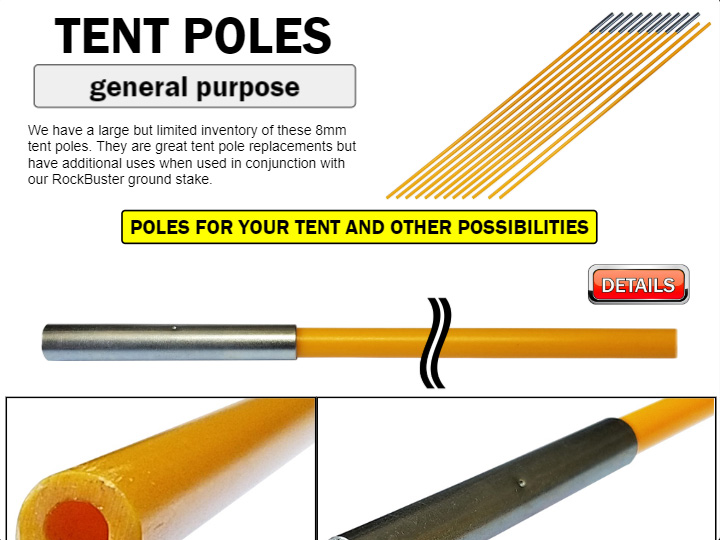
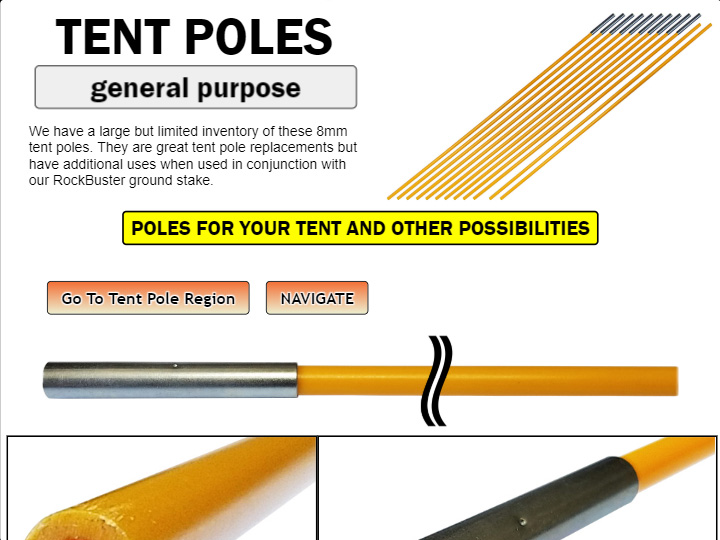
content add/edit and configure of view08 - tent poles

diff --git a/components/components08_11/tmpl_08/viewTmpl_08.html b/components/components08_11/tmpl_08/viewTmpl_08.html
@@ -1,35 +1,4 @@
-<style>
-.textStyle1
-{
-font-family: 'Franklin Gothic Medium', 'Franklin Gothic', 'ITC Franklin Gothic', Arial, sans-serif;   
-color:white;
-text-shadow:    1px 0px 1px black, 2px 0px 2px black, 3px 0px 3px black, 
-                1px 1px 1px black, 2px 2px 2px black, 3px 3px 3px black,
-                0px 1px 1px black, 0px 2px 2px black, 0px 3px 3px black,
-
-                -1px 1px 1px black, -2px 2px 2px black, -3px 3px 3px black,
-                -1px 0px 1px black, -2px 0px 2px black, -3px 0px 3px black,
-                
-                -1px -1px 1px black, -2px -2px 2px black, -3px -3px 3px black,
-                 0px -1px 1px black,  0px -2px 2px black,  0px -3px 3px black,
-                 1px -1px 1px black,  2px -2px 2px black,  3px -3px 3px black;
-}
-
-.fontFam
-{
-font-family: 'Franklin Gothic Medium', 'Franklin Gothic', 'ITC Franklin Gothic', Arial, sans-serif;     
-}
-
-.imageStyle1:hover
-{
-background-color:black; 
-border-radius:10px;
-box-shadow: 1px 1px 15px #CCEDF2, 1px -1px 15px #CCEDF2, -1px 1px 15px #CCEDF2, -1px -1px 15px #CCEDF2,
-            1px 1px 25px #EAE2BB, 1px -1px 25px #EAE2BB, -1px 1px 25px #EAE2BB, -1px -1px 25px #EAE2BB,
-            1px 1px 25px #EAE2BB, 1px -1px 25px #EAE2BB, -1px 1px 25px #EAE2BB, -1px -1px 25px #EAE2BB;
-}
-
-</style>
+<link rel="stylesheet" type="text/css" href="css/vn-templateStyle1.css">
 
 <div style="text-align:center;">    
 
@@ -38,7 +7,7 @@ box-shadow: 1px 1px 15px #CCEDF2, 1px -1px 15px #CCEDF2, -1px 1px 15px #CCEDF2, 
         <tr>
             <td style=" {{$ctrl.rs1width1}};            /* AR_50_60 */
                         vertical-align:top;">
-                <div    class="fontFam"
+                <div    class="textStyle2"
                         style=" width:100%;
                                 {{$ctrl.rs1fontsize3}}; /* AR_3_0.8 */
                                 ">
@@ -102,33 +71,76 @@ box-shadow: 1px 1px 15px #CCEDF2, 1px -1px 15px #CCEDF2, -1px 1px 15px #CCEDF2, 
 <!-- Response Section 3 ************************************************************************************************************************************************-->
 
     <div style="position:relative; 
-                {{$ctrl.rs3height1}}; /* AR_200_65*/
-                ">
-        
-        <table style="  position:absolute; 
-                        {{$ctrl.rs3positiontop1}};         /* AR_-50_-25 */
-                        /*top:-50px; */
-                        {{$ctrl.rs3positionleft1}};         /* AR_85_75*/
-                        z-index:2;">
-            <tr>
-                <td style="text-align:right; vertical-align:top;">
-                    <a href="https://www.tarptiedown.com/TTD-Store/index.php?rt=product/category&path=18&session_id=6j7rvh11bja994asmiaq72uj26"> 
-                        <img src="https://tarptiedown.com/resources/ttd-vn-button3-300x120.png"
-                             alt="button" 
-                             title="Tent pole sizes, uses, elastic cord, prices, etc."
-                             class="imageStyle1"
-                             style="{{$ctrl.rs3width3}};">  <!-- AR_150_70 -->
-                    </a>
-                </td>
-            </tr>
-        </table>
+                {{$ctrl.rs3fontsize1}};
+               ">
         
         <img    src="components/components08_11/tmpl_08/ttd-vn-tp-presentation5-2540x375.jpg" 
                 alt="Tent Pole" 
                 title="Tent Pole" 
-                style="margin-left:auto; margin-right:auto; width:90%;"> 
+                style= "margin-left:auto; 
+                        margin-right:auto; 
+                        width:90%;
+                        {{$ctrl.rs3margintop1}};
+                        "> 
+        
+        <div style="position:absolute;
+                    left:6%;
+                    {{$ctrl.rs3top1}};
+                   ">
+            <a  href="https://www.tarptiedown.com/components/components08_11/tmpl_08/ttd-vn-tp-not-complete-msg.html"
+                class="btnStyle2"
+                style= "{{$ctrl.rs3padding1}};
+                        text-decoration:none;
+                        font-weight:bold;
+                       "
+               > Go To Tent Pole Region
+                
+            </a>
+            <div class="btnStyle2" 
+                 ng-click="$ctrl.moreless2()"
+                 style="{{$ctrl.rs3padding1}};
+                        {{$ctrl.rs3marginleft1}};
+                        font-weight:bold;
+                       ">
+                     {{$ctrl.morelessText2}}
+            </div>
+            <div class="textBoxStyle2 textStyle3"
+                 ng-show="$ctrl.display2">
+                 
+                <table  style= "width:100%;">
+                    <tr><td><u>SELECTION</u>&nbsp;&nbsp;&nbsp;&nbsp;&nbsp;&nbsp;</td>
+                        <td><u>DESTINATION</u>
+                            <span   class= "youAreHere2">
+                                &nbsp;&nbsp;you are here&nbsp;&nbsp;
+                            </span>
+                        </td>
+                    </tr>
+                    <tr class="topMenuNav">  <td class="tdStyle">TTD Intro          </td><td class="tdStyle">Tarp Tie Down Home & intro </td></tr>
+                    <tr class="topMenuNav">  <td class="tdStyle">Price/Buy          </td><td class="tdStyle">Product pricing and store  </td></tr>
+                    <tr class="topMenuNav">  <td class="tdStyle">Products           </td><td class="tdStyle">Tarp Tie Down products     </td></tr>
+                    <tr class="topMenuNav">  <td class="tdStyle">Reviews            </td><td class="tdStyle">Customer feedback          </td></tr>
+                    <tr class="hyperMenuNav"><td class="tdStyle">Button A  Thumb 1  </td><td class="tdStyle">Standard EZ Grabbit        </td></tr>
+                    <tr class="hyperMenuNav"><td class="tdStyle">Button A  Thumb 2  </td><td class="tdStyle">Long Grabbit               </td></tr>
+                    <tr class="hyperMenuNav"><td class="tdStyle">Button A  Thumb 3  </td><td class="tdStyle">Mini Grabbit               </td></tr>
+                    <tr class="hyperMenuNav"><td class="tdStyle">Button A  Thumb 4  </td><td class="tdStyle">EZ Adjust Rope Adjuster    </td></tr>
+                    <tr class="hyperMenuNav"><td class="tdStyle">Button B  Thumb 1  </td><td class="tdStyle">RockBuster Ground Stake    </td></tr>
+                    <tr class="hyperMenuNav"><td class="tdStyle">Button B  Thumb 2  </td><td class="tdStyle">Bag Grabbit Bag Handle     </td></tr>
+                    <tr class="hyperMenuNav"><td class="tdStyle">Button B  Thumb 3  </td><td class="tdStyle">The EZ Grabbit Keeper      </td></tr>
+                    <tr class="hyperMenuNav"><td class="tdStyle">Button B  Thumb 4  </td><td class="tdStyle">Carry/Duffle Bag           </td></tr>
+                    <tr class="youAreHere">  <td class="tdStyle">Button C  Thumb 1  </td><td class="tdStyle">Tent Poles                 </td></tr>
+                    <tr class="hyperMenuNav"><td class="tdStyle">Button C  Thumb 2  </td><td class="tdStyle">Classic EZ Grabbit         </td></tr>
+
+                </table>
+            </div>  
+        </div>
+        
     </div>
-    <table style="margin-left:auto; margin-right:auto;">
+    
+
+
+
+
+<table style="margin-left:auto; margin-right:auto;">
         <tr>
              
             <td style="width:43.6%">

diff --git a/components/components08_11/tmpl_08/ttd-vn-tp-not-complete-msg.html b/components/components08_11/tmpl_08/ttd-vn-tp-not-complete-msg.html
@@ -1,0 +1,60 @@
+<!DOCTYPE html>
+<html lang="en">
+  <head>
+    <meta charset="UTF-8">
+    <meta name="viewport" content="user-scalable=no, initial-scale=1, maximum-scale=1, minimum-scale=1">
+    <meta name="generator" content="NetBeans IDE 8.0.2">
+    <meta name="dcterms.created" content="Sunday, 05 August 2018">
+    <meta name="description" content="Mount Tarps to Surfaces, Overlap and Connect Tarps Together, Fold and Secure Multiple Tarp Layers, Attach Anywhere to Tarp and Pull from any Angle. Build your Tarp City with Grabbit Tarp Tie Downs!">
+    <meta name="keywords" content="EZ Grabbit, grabbit, grabit, grab-it, tarp fastener, tarp clip, tarp klip, tarp clamp, tarp holder, tarp tie down, tie down, mounting tarp, connecting tarp, tarp shelter, camp tarp, tent camping, canopy">
+    <meta name="author" content="Brian H.Combes">
+    <title>Not Complete Info</title>
+    <link rel="SHORTCUT ICON" href="https://www.tarptiedown.com/resources/ttd-vn-icon-ttd-256x256.ico"> 
+    <link rel="stylesheet" type="text/css" href="https://www.tarptiedown.com/css/vn-templateStyle1.css">
+    
+</head>
+<body>
+    <div style="max-width:1170px; margin-left:auto; margin-right:auto;"><br>
+        <img src="https://www.tarptiedown.com/resources/images/TTD Logo - 1200x225 - 08-07-2017.png" alt="Tarp Tie Down Logo Here" style="width:100%;">
+    </div>
+    <div style="max-width:1170px; margin-left:auto; margin-right:auto; font-size:1.0em;">	
+        <p id="p1" style="text-align:center;">
+            Our Tent Pole region is <span style="text-decoration:underline; font-weight:bold;">not</span> yet Complete 
+        </p>
+
+        <p style="text-align:center;">
+            Please click on the Tent Pole button to go to our Tent Pole store item. The product info there is helpful.<br><br>
+            <b>NOTE!</b><br>
+                <span style="font-family:Franklin Gothic Medium, Franklin Gothic, ITC Franklin Gothic, Arial, sans-serif; 
+                             color:blue;
+                            ">
+                    Full Tent Pole product info is on the way.
+                </span>
+                <br><br> 
+        </p>	
+
+        <div id="d1"
+             style="text-align:center">
+                <a href="https://www.tarptiedown.com/TTD-Store/index.php?rt=product/category&path=18&session_id=6j7rvh11bja994asmiaq72uj26"
+                   class="btnStyle2"
+                   style="text-decoration:none;">
+                        Tent Pole Store Item
+                </a><br><br>
+                <a href="https://www.tarptiedown.com" 
+                   class="btnStyle2"
+                   style="text-decoration:none;">
+                        Return to TTD Home
+                </a>
+        </div> 
+    </div>
+	
+<script>
+   
+    var viewWidth = window.screen.availWidth;
+    
+    document.getElementById("p1").style.fontSize = ((0.00185)*(viewWidth)+0.33333) + "em";
+    document.getElementById("d1").style.fontSize = ((0.00062)*(viewWidth)+0.77778) + "em";
+
+</script>    
+</body>
+</html>

diff --git a/components/components08_11/components08_11.js b/components/components08_11/components08_11.js
@@ -19,27 +19,31 @@ angular.module('viewNav')
             self08.rs1width3 = "width:" + ((-0.01235)*(viewWidth)+99.44444) + "%";          // AR_85_95
             self08.rs1positionleft1 = "left:" + ((0.00617)*(viewWidth)+0.27778) + "%";      // AR_7.5_2.5
             
-             
-            
             // Response Section 2
-            self08.rs2fontsize2 = "font-size:" + ((0.00154)*(viewWidth)+0.19444) + "em";               // AR_2_0.75
+            self08.rs2fontsize2 = "font-size:" + ((0.00154)*(viewWidth)+0.19444) + "em";            // AR_2_0.75
             self08.rs2marginbottom1 = "margin-bottom:" + ((0.06173)*(viewWidth)+7.77778) + "px";    // AR_80_30 
             
             // Response Section 3
-            self08.rs3positiontop1 = "top:" + ((-0.03086)*(viewWidth)-13.88889) + "px";        // AR_-50_-25
-            self08.rs3positionleft1 = "left:" + ((0.01235)*(viewWidth)+70.55556)    + "%";     // AR_85_75
-            self08.rs3width3 = "width:" + ((0.09877)*(viewWidth)+34.44444) + "px";             // AR_150_70  
-            self08.fontsize4 = "font-size:" + ((0.00068)*(viewWidth)+0.45556) + "em"; 
-            self08.rs3height1 = "height" + ((0.12963)*(viewWidth)+48.33333) + "em"; 
+            self08.rs3fontsize1 = "font-size:" + ((0.00095)*(viewWidth)+0.38778) + "em";            /* AR_1.50_0.73 */
+            self08.rs3margintop1 = "margin-top:" + ((0.03704)*(viewWidth)+11.66667) + "px";         /* AR_55.00_25.00 */
+            self08.rs3top1 = "top:" + ((-0.01235)*(viewWidth)-10.55556) + "px";                     /* AR_-25.01_-15.00 */
+            self08.rs3marginleft1= "margin-left:" + ((0.01852)*(viewWidth)-1.66667) + "px";         /* AR_20.00_5.00 */
+            self08.rs3padding1 = "padding:" + ((0.00617)*(viewWidth)+2.77778) + "px " + ((0.01235)*(viewWidth)+5.55556) + "px";    /* AR_10.00_5.00 */ /* AR_20.01_10.00 */
             
-            
-            // Not used
-            self08.margintop2 = "margin-top:" + ((0.01235)*(viewWidth)+0.55556) + "px";
-            self08.positiontop2 = "top:" + ((0.43210)*(viewWidth)-5.55556) + "px";          //div4
-            self08.fontsize5 = "font-size:" + ((0.00370)*(viewWidth)-0.33333) + "em";
-            
-             
-            
+            // Sets mode of the "NAVIGATE" button
+            self08.display2 = false;
+            self08.morelessText2 = "NAVIGATE";
+            self08.moreless2 = function(){
+                if(self08.morelessText2 === "NAVIGATE"){
+                    self08.morelessText2 = "HIDE NAVIGATE";
+                    self08.display2 = true;
+                } 
+                else {
+                    self08.morelessText2 = "NAVIGATE";
+                    self08.display2 = false;
+                }
+            };    
+          
             compFactory.logView(08);
         }]
     })

diff --git a/controller-client.js b/controller-client.js
@@ -289,7 +289,7 @@ angular.module('viewNav')
 //***********************************************************************************************************************************************************            
 // $state.go('some-view') loads the desired view as the default view upon load               
         var stateGo = (function(){    
-            $state.go('view07');
+            $state.go('view08');
 /*             
                 // Use this setTimeout if intializing with a template. If you initialize with a template only the first thumbnail group will show properly. If
                 // it's a template (view04 and up) then the proper thumbnail group won't show unless you call the stateHistory method and send it the proper parameters
